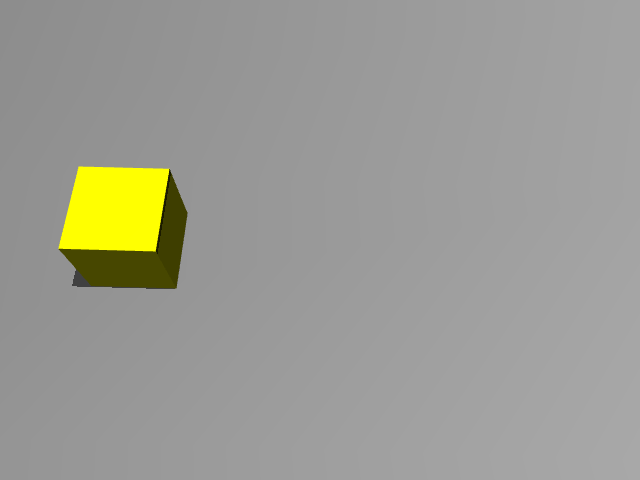
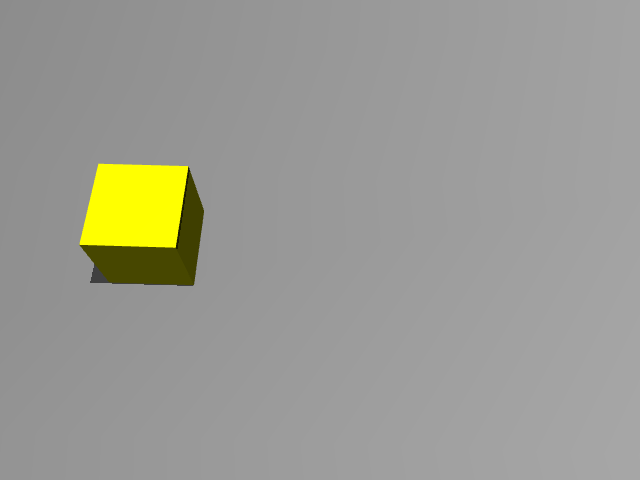
ORIENT对齐closing

Changed region(s): [[0.0938, 0.3438, 0.3438, 0.625]]

diff --git a/custom_envs/scripts/navigation/navigate_mujoco.py b/custom_envs/scripts/navigation/navigate_mujoco.py
@@ -1601,11 +1601,10 @@ def main():
 
             elif current_state == PipelineState.ORIENT:
                 # 只用 joint6 绕 gripper approach 轴旋转；j1~j5 锁定“进入 ORIENT 时的实际值”。
-                # 本版 ORIENT 不再精确复现 AnyGrasp closing 的小竖直倾角，而是：
-                #   1) 保持当前实际 approach 方向不变；
-                #   2) 将 closing 方向强制设为世界水平（world z 分量 = 0）；
-                #   3) 在两个水平解 ±closing 中选择最接近 AnyGrasp 原 closing 的一个。
-                # 因而 ORIENT 结束时两根平行手指在理想刚体几何下等高，后续 REACH 只保持该姿态前进。
+                # 目标不再强制把双指调平，而是尽量恢复 AnyGrasp 的 closing 方向：
+                #   1) 保持 MuJoCo 当前实际 approach 不变；
+                #   2) 将 AnyGrasp closing 投影到垂直于该 approach 的可实现平面；
+                #   3) closing 对平行夹爪具有 ± 对称性，选择 j6 转动最小的合法分支。
                 cmd_vx = 0.0; cmd_vy = 0.0; cmd_wz = 0.0
                 if grasp_result is None or "R_desired_EE_in_arm" not in grasp_result:
                     next_state = PipelineState.DONE
@@ -1614,66 +1613,99 @@ def main():
                     if state_step == 0:
                         from arm_ik_mujoco import (
                             extract_j6_angle,
+                            _IK_JOINT_LIMITS as _or_lims,
                             _RX_NEG90 as _RXN90_or,
                             quat_to_rot as _q2r_or_init,
                         )
 
-                        # AnyGrasp 原始目标（gripper_base，arm frame），只用于决定水平 closing 的 ± 方向。
+                        # AnyGrasp 原始目标姿态：转换为 gripper_base frame 后取 closing(+Y)。
                         _R_gb_anygrasp_or = (grasp_result["R_desired_EE_in_arm"]
                                              @ _RXN90_or)
 
-                        # 以 MuJoCo 当前真实姿态的 approach 作为固定旋转轴。
-                        # joint6 只绕该轴转，因此 ORIENT 不改变 approach。
+                        # joint6 只绕当前 gripper_base approach(+Z) 转，因此该实际 approach
+                        # 是 ORIENT 期间不可改变的旋转轴。
                         _, _R_or_init_w = _gb_pose_world()
                         _approach_w = np.asarray(_R_or_init_w[:, 2], dtype=np.float64)
                         _approach_w /= max(float(np.linalg.norm(_approach_w)), 1e-12)
 
-                        # AnyGrasp 原 closing 转到世界系，用来选择最接近的水平解。
+                        # AnyGrasp closing 转到世界系。
                         _R_robot_or_init = _q2r_or_init(np.asarray(quat_w, dtype=np.float64))
                         _R_anygrasp_w = _R_robot_or_init @ _R_gb_anygrasp_or
                         _closing_any_w = np.asarray(_R_anygrasp_w[:, 1], dtype=np.float64)
                         _closing_any_w /= max(float(np.linalg.norm(_closing_any_w)), 1e-12)
 
-                        # 水平且与 approach 垂直的 closing：c ∝ world_z × approach。
-                        # 若 approach 几乎竖直，world_z × approach 退化；此时直接使用
-                        # AnyGrasp closing 的水平投影（竖直 approach 下任意水平 closing 都与其正交）。
-                        _world_z = np.array([0.0, 0.0, 1.0], dtype=np.float64)
-                        _closing_h = np.cross(_world_z, _approach_w)
-                        _closing_h_norm = float(np.linalg.norm(_closing_h))
-                        if _closing_h_norm < 1e-6:
-                            _closing_h = _closing_any_w.copy()
-                            _closing_h[2] = 0.0
-                            _closing_h_norm = float(np.linalg.norm(_closing_h))
-                            if _closing_h_norm < 1e-6:
-                                _closing_h = np.array([1.0, 0.0, 0.0], dtype=np.float64)
-                                _closing_h_norm = 1.0
-                        _closing_h /= _closing_h_norm
+                        # j6-only 的可实现集合要求 closing ⟂ 当前实际 approach。
+                        # 因而把 AnyGrasp closing 正交投影到该法平面；这就是在固定 approach
+                        # 前提下，与原 AnyGrasp closing 最近的可实现 closing。
+                        _closing_proj = (_closing_any_w
+                                         - float(np.dot(_closing_any_w, _approach_w))
+                                         * _approach_w)
+                        _closing_proj_norm = float(np.linalg.norm(_closing_proj))
+                        if _closing_proj_norm < 1e-6:
+                            # 极端退化：AnyGrasp closing 几乎平行于当前 approach。
+                            # 此时投影方向不可靠；保持当前实际 closing，避免产生任意大旋转。
+                            _closing_proj = np.asarray(_R_or_init_w[:, 1], dtype=np.float64).copy()
+                            _closing_proj_norm = float(np.linalg.norm(_closing_proj))
+                            print("[WARN] ORIENT AnyGrasp closing projection degenerate; "
+                                  "keep current feasible closing", flush=True)
+                        _closing_proj /= max(_closing_proj_norm, 1e-12)
 
-                        # closing 对平行夹爪有 ± 对称性；取与 AnyGrasp 原方向更接近的一支。
-                        if float(np.dot(_closing_h, _closing_any_w)) < 0.0:
-                            _closing_h = -_closing_h
+                        # 构造 +closing / -closing 两个物理等价目标，并分别求 j6。
+                        # 再考虑 2π 周期分支，在 joint6 限位内选择离当前 j6 最近的一支。
+                        _orient_candidates = []
+                        for _sign in (1.0, -1.0):
+                            _closing_cand_w = _sign * _closing_proj
+                            _binormal_cand_w = np.cross(_closing_cand_w, _approach_w)
+                            _binormal_cand_w /= max(
+                                float(np.linalg.norm(_binormal_cand_w)), 1e-12)
+                            _closing_cand_w = np.cross(_approach_w, _binormal_cand_w)
+                            _closing_cand_w /= max(
+                                float(np.linalg.norm(_closing_cand_w)), 1e-12)
+                            _R_gb_cand_w = np.column_stack((
+                                _binormal_cand_w, _closing_cand_w, _approach_w))
+                            _R_gb_cand_arm = _R_robot_or_init.T @ _R_gb_cand_w
+                            _j6_raw = float(extract_j6_angle(cur_q, _R_gb_cand_arm))
+                            for _k in (-1, 0, 1):
+                                _j6_cand = _j6_raw + _k * 2.0 * math.pi
+                                if _or_lims[5][0] <= _j6_cand <= _or_lims[5][1]:
+                                    _orient_candidates.append((
+                                        abs(_j6_cand - float(cur_q[5])),
+                                        _j6_cand,
+                                        _R_gb_cand_arm,
+                                        _closing_cand_w.copy(),
+                                    ))
 
-                        # 重新正交化，构造合法右手 gripper_base 旋转矩阵：
-                        # columns = [binormal(+X), closing(+Y), approach(+Z)].
-                        _binormal_h = np.cross(_closing_h, _approach_w)
-                        _binormal_h /= max(float(np.linalg.norm(_binormal_h)), 1e-12)
-                        _closing_h = np.cross(_approach_w, _binormal_h)
-                        _closing_h /= max(float(np.linalg.norm(_closing_h)), 1e-12)
-                        _R_gb_level_w = np.column_stack((_binormal_h, _closing_h, _approach_w))
-                        _R_gb_desired_or = _R_robot_or_init.T @ _R_gb_level_w
+                        if _orient_candidates:
+                            _, j6_target, _R_gb_desired_or, _closing_target_w = min(
+                                _orient_candidates, key=lambda x: x[0])
+                        else:
+                            # extract_j6_angle 正常应给出限位内解；若没有合法周期分支，
+                            # 保守地保持当前 j6，避免越限。
+                            j6_target = float(cur_q[5])
+                            _closing_target_w = np.asarray(
+                                _R_or_init_w[:, 1], dtype=np.float64).copy()
+                            _binormal_target_w = np.cross(_closing_target_w, _approach_w)
+                            _binormal_target_w /= max(
+                                float(np.linalg.norm(_binormal_target_w)), 1e-12)
+                            _R_gb_target_w = np.column_stack((
+                                _binormal_target_w, _closing_target_w, _approach_w))
+                            _R_gb_desired_or = _R_robot_or_init.T @ _R_gb_target_w
+                            print("[WARN] ORIENT no legal j6 candidate; keep current j6",
+                                  flush=True)
 
-                        # j1~j5 不动，只解 j6；因此实际动作就是绕 approach 轴把双指“调平”。
-                        j6_target = extract_j6_angle(cur_q, _R_gb_desired_or)
-                        _orient_q_fixed = cur_q.copy()   # 关键：实际姿态，而非 PRE 理论 q
+                        _orient_q_fixed = cur_q.copy()   # 实际姿态，而非 PRE 理论 q
                         _orient_j6_start = float(cur_q[5])
 
                         _closing_tilt_any = math.degrees(math.asin(float(np.clip(
                             abs(_closing_any_w[2]), 0.0, 1.0))))
                         _closing_tilt_target = math.degrees(math.asin(float(np.clip(
-                            abs(_closing_h[2]), 0.0, 1.0))))
-                        print(f"[SM] ORIENT level fingers: "
-                              f"AnyGrasp closing_tilt={_closing_tilt_any:.2f}deg -> "
-                              f"target={_closing_tilt_target:.2f}deg, "
+                            abs(_closing_target_w[2]), 0.0, 1.0))))
+                        _projection_err = math.degrees(math.acos(float(np.clip(abs(
+                            np.dot(_closing_any_w, _closing_target_w)), 0.0, 1.0))))
+                        print(f"[SM] ORIENT match AnyGrasp closing: "
+                              f"AnyGrasp_tilt={_closing_tilt_any:.2f}deg, "
+                              f"projected_tilt={_closing_tilt_target:.2f}deg, "
+                              f"projection_err={_projection_err:.2f}deg, "
                               f"j6_target={j6_target:.4f} rad "
                               f"({math.degrees(j6_target):.1f} deg), "
                               f"j6_start={_orient_j6_start:.4f} rad", flush=True)
@@ -1706,19 +1738,23 @@ def main():
                             _R_robot_or = _q2r_or_done(np.asarray(quat_w, dtype=np.float64))
                             _R_gb_desired_w = _R_robot_or @ _R_gb_desired_or
 
-                            # 用 MuJoCo 真值姿态检查，而不是再用 ikpy FK 自己验证自己。
-                            # closing axis 对平行夹爪有 ± 方向对称性，因此取绝对点积。
+                            # 用 MuJoCo 真值姿态检查，而不是再用 IK/FK 自己验证自己。
+                            # closing axis 对平行夹爪有 ± 方向对称性，因此比较“连线”时取绝对点积。
                             _app_dot = float(np.clip(
                                 np.dot(_R_or_actual_w[:, 2], _R_gb_desired_w[:, 2]), -1.0, 1.0))
                             _close_dot = float(np.clip(abs(
                                 np.dot(_R_or_actual_w[:, 1], _R_gb_desired_w[:, 1])), 0.0, 1.0))
+                            _close_any_dot = float(np.clip(abs(
+                                np.dot(_R_or_actual_w[:, 1], _closing_any_w)), 0.0, 1.0))
                             _app_err = math.acos(_app_dot)
                             _close_err = math.acos(_close_dot)
+                            _close_any_err = math.acos(_close_any_dot)
 
                             if _app_err > math.radians(10.0) or _close_err > math.radians(10.0):
                                 print(f"[WARN] ORIENT actual pose mismatch: "
                                       f"approach_err={math.degrees(_app_err):.1f}deg "
-                                      f"closing_err={math.degrees(_close_err):.1f}deg "
+                                      f"projected_closing_err={math.degrees(_close_err):.1f}deg "
+                                      f"AnyGrasp_closing_err={math.degrees(_close_any_err):.1f}deg "
                                       f"-> ARM_INIT retry", flush=True)
                                 grasp_result = None
                                 _pg_cmd = None
@@ -1731,7 +1767,8 @@ def main():
                                 print(f"[SM] ORIENT done: j6={_cur_q_orient_done[5]:.4f} "
                                       f"(target={j6_target:.4f}), "
                                       f"approach_err={math.degrees(_app_err):.2f}deg, "
-                                      f"closing_err={math.degrees(_close_err):.2f}deg, "
+                                      f"projected_closing_err={math.degrees(_close_err):.2f}deg, "
+                                      f"AnyGrasp_closing_err={math.degrees(_close_any_err):.2f}deg, "
                                       f"actual_closing_tilt={_closing_actual_tilt:.2f}deg -> REACH",
                                       flush=True)
                                 next_state = PipelineState.REACH
